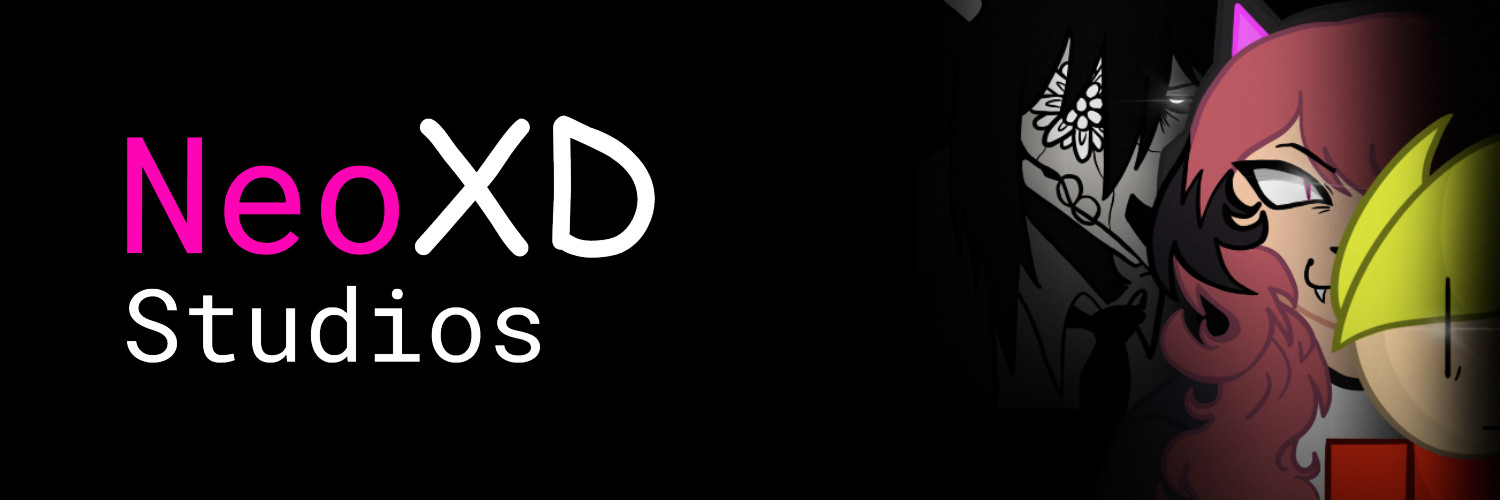
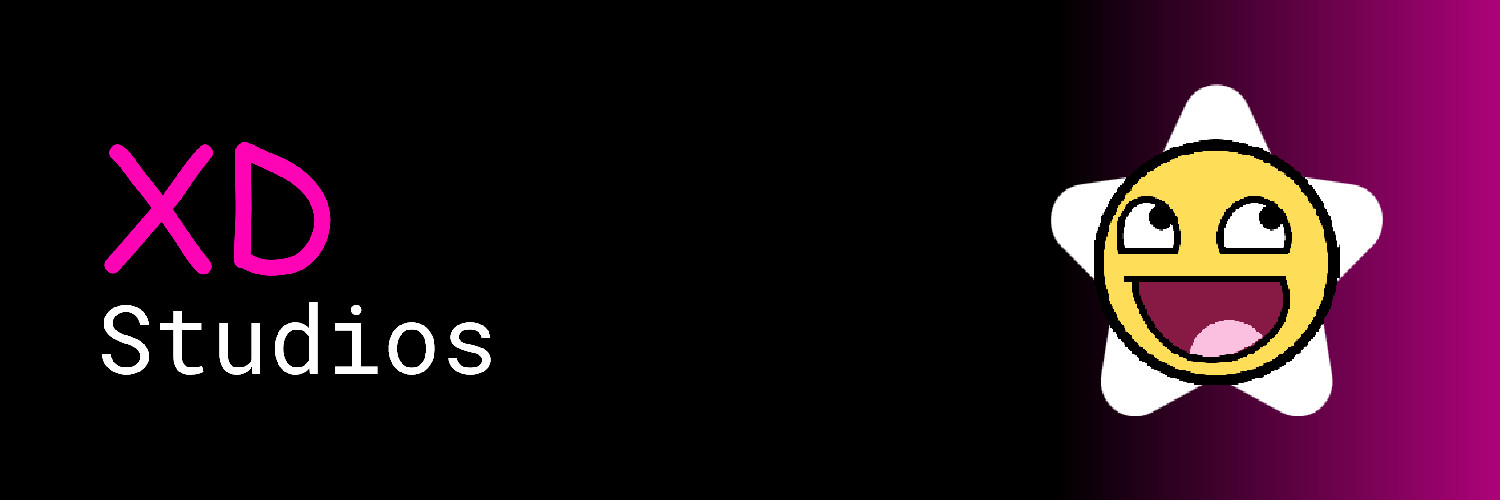
Xd Studios update
Updated some shit bro just look at the website

diff --git a/neoxd.html b/neoxd.html
@@ -1,0 +1,64 @@
+<!DOCTYPE html>
+<html>
+
+<head>
+  <title id="content_title">XD Studios</title>
+  <link rel="icon" type="image/x-icon" href="images/neoxd/favicon.png">
+  <link rel="stylesheet" href="styles/styleXD.css">
+</head>
+
+<body>
+  <img class="banner" src="images/neoxd/neoXDbanner.jpg">
+  <p class="title">
+    About Us
+  </p>
+  <hr>
+  <p class="bodytext">
+    Hi! We're XD Studios. We make games, fangames, mods, websites, applications, and more. We're a group of friends
+    who like to code and really wanna make some cool shit.<br><br>We like to make silly stuff and some genuinely
+    useful stuff.<br><br>You can meet the different team members below. We also have a Discord server where you can chat
+    with us and members of our community. You can also get pings for updates and teasers!
+  </p>
+  <br>
+  <a href="pages/meettheteam/meettheteam.html">
+    <img src="images/neoxd/team.png" class="icon">
+    <p class="icontext" style="margin-left: 28vw; margin-top: -35px;">
+      Meet the team members
+    </p>
+  </a>
+  <a href="https://discord.gg/fJ79WACeC6">
+    <img src="images/neoxd/discord.png" class="icon">
+    <p class="icontext" style="margin-left: 28vw; margin-top: -35px;">
+      Join the Discord
+    </p>
+  </a>
+  <br>
+  <p class="title">
+    What we've made
+  </p>
+  <hr>
+  <br>
+  <div class="games">
+    <a href="pages/ffaf/fivefivesatfuckass.html">
+      <img src="images/neoxd/fivefivesatfuckass/tall.jpg" class="gamebanner">
+    </a>
+    <a href="pages/hopelessblud/hopelessblud.html">
+      <img src="images/neoxd/hopelessblud/tall.jpg" class="gamebannersec">
+    </a>
+    <a href="pages/gettingthemcdonalds/gettingthemcdonalds.html">
+      <img src="images/neoxd/gettingthemcdonalds/tall.png" class="gamebannersec">
+    </a>
+    <a href="pages/mcsm/mcsm.html">
+      <img src="images/neoxd/mcsm.jpg" class="gamebannersec">
+    </a>
+  </div>
+  <footer>
+    <p class="footertext" style="margin-top: 150px;">
+      Site by DroidTA. Hosted on Github Pages. Cover image drawn by<a
+        href="https://ko-fi.com/vivkiefrat">kieran/vivk1efrat</a>
+    </p>
+    <p class="footertext" style="margin-bottom: 50px;">
+      <a href="https://github.com/WrongWarp26/droidtheawesomewebsite">Repository</a>
+    </p>
+  </footer>
+</body>

diff --git a/styles/styleXD.css b/styles/styleXD.css
@@ -1,0 +1,93 @@
+@font-face {
+  font-family: "roboto";
+  src: url(../fonts/roboto.ttf) format("truetype");
+}
+
+.banner {
+  width: 60%;
+  border-radius: 5vw;
+  border-style: solid;
+  border-color: white;
+  display: block;
+  margin: auto;
+  margin-top: 20px;
+}
+
+body {
+  background-color: black;
+}
+
+.title {
+  color: white;
+  font-size: 50px;
+  font-family: "roboto", sans-serif;
+  margin-left: 25vw;
+}
+
+.bodytext {
+  color: white;
+  margin-left: 25vw;
+  font-size: 25px;
+  max-width: 50%;
+  font-family: "roboto", sans-serif;
+}
+
+hr {
+  max-width: 50%;
+  margin-top: -20px;
+  margin-bottom: 20px;
+}
+
+.gamebanner {
+  border-radius: 1vw;
+  border-style: solid;
+  border-color: white;
+  padding: 3px;
+  width: 10vw;
+}
+
+.gamebannersec {
+  border-radius: 1vw;
+  border-style: solid;
+  border-color: white;
+  margin-left: 25px;
+  padding: 3px;
+  width: 10vw;
+}
+
+.icon {
+  margin-left: 25vw;
+  width: 30px;
+}
+
+.icontext {
+  margin-left: 25px;
+  font-size: 25px;
+  max-width: 50%;
+  font-family: "roboto", sans-serif;
+}
+
+a .icontext {
+  color: hotpink;
+}
+
+a .bodytext {
+  color: hotpink;
+}
+
+.games {
+  display: flex;
+  align-items: center;
+  justify-content: center;
+}
+
+.footertext {
+  color: gray;
+  margin-left: 25vw;
+  font-size: 15px;
+  max-width: 50%;
+  font-family: "roboto", sans-serif;
+  display: flex;
+  align-items: center;
+  justify-content: center;
+}

diff --git a/pages/meettheteam/meettheteam.html b/pages/meettheteam/meettheteam.html
@@ -8,7 +8,7 @@
 </head>
 
 <body>
-  <a href="../neoxd/neoxd.html">
+  <a href="../../neoxd.html">
     <img class="banner" src="../../images/neoxd/neoXDbanner.jpg">
   </a>
   <p class="title">
@@ -16,17 +16,6 @@
   </p>
   <hr>
   <br>
-  <a href="https://drezeandev.carrd.co/">
-    <img src="../../images/neoxd/teammembers/pama.png" class="pfp">
-  </a>
-  <p class="membertext">
-    DrEzeanDev
-  </p>
-  <p class="memberdesc">
-    Hey there chat! I'm DrEzeanDev. I code in Clickteam Fusion
-    2.5. I make games, I play games, I write things and I draw sometimes. I'm a fan of a lot of
-    things (Primarily UT\DT, (Actual) FNaF, Minecraft, The Elder Scrolls, Subnautica, Schedule I, etc).
-  </p>
   <a href="../../index.html">
     <img src="../../images/global/droidpfp.png" class="pfp">
   </a>

diff --git a/index.html b/index.html
@@ -4,7 +4,7 @@
 <head>
   <title id="content_title">DroidTA</title>
   <link rel="icon" type="image/x-icon" href="images/droidpage/favicon.png">
-  <link rel="stylesheet" href="style.css">
+  <link rel="stylesheet" href="styles/style.css">
 </head>
 
 <body>
@@ -24,8 +24,8 @@
   <br>
   <br>
   <br>
-  <a href="pages/neoxd/neoxd.html">
-    <img src="images/global/neoXDlogo.png" style="width:400px; margin-left:120px ;">
+  <a href="neoxd.html">
+    <img src="images/global/neoXDLogo.png" style="width:400px; margin-left:120px ;">
   </a>
   <img src="images/droidpage/checkitout.gif" style="width:300px;">
   <p style="margin-left: 100px; font-size: 70px; color:white;">My Socials</p>

diff --git a/styles/style.css b/styles/style.css
@@ -1,0 +1,25 @@
+@font-face {
+  font-family: "inter";
+  src: url(fonts/inter.ttf) format("truetype");
+}
+
+body {
+  font-family: "inter", sans-serif;
+  background-color: black;
+  margin: 0;
+  min-height: 100vh;
+}
+
+button {
+  border: none;
+  outline: none;
+  box-shadow: none;
+  background: black;
+}
+
+.subtitle {
+  font-family: "inter", sans-serif;
+  background-color: gray;
+  margin: 0;
+  min-height: 100vh;
+}
